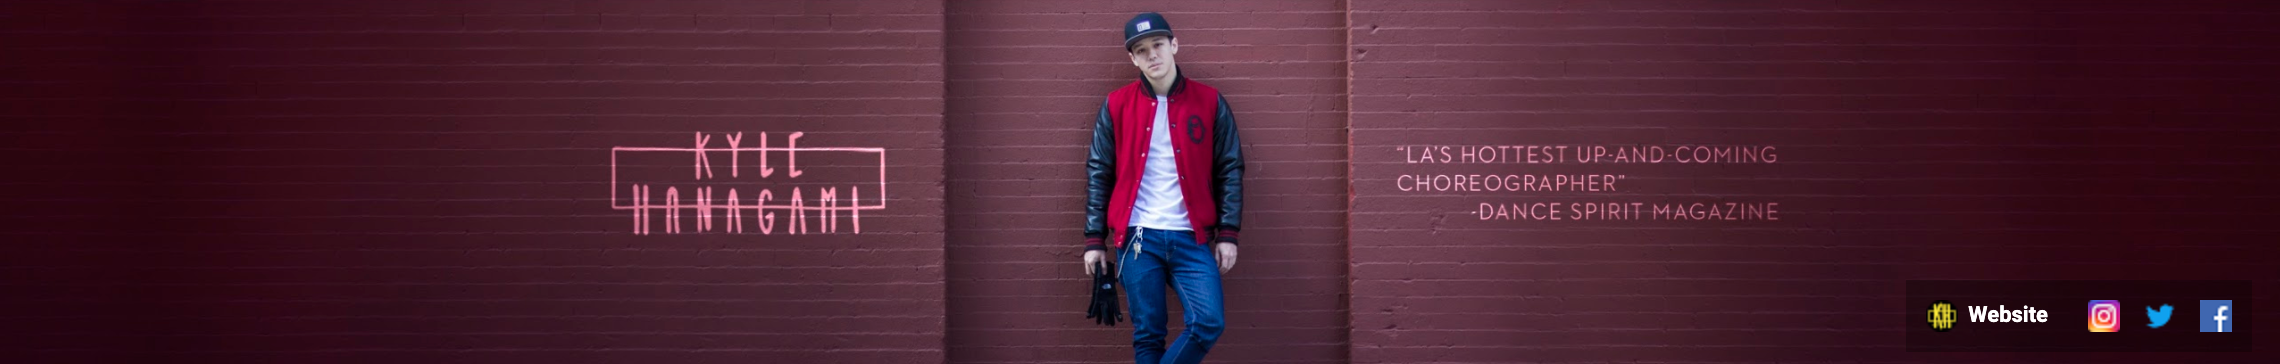
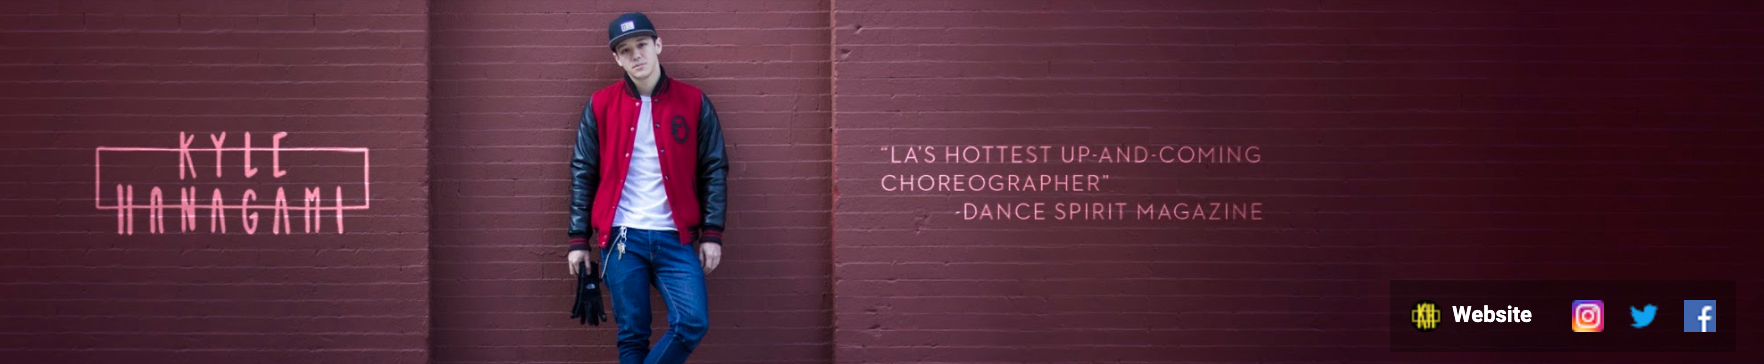
updated left-nav-bar

diff --git a/index.html b/index.html
@@ -36,24 +36,58 @@
           <div><span><i class="fas fa-fire"></i></span><span>Trending</span></div>
           <div><span><i class="fab fa-youtube-square"></i></span><span>Subscriptions</span></div>
         </div>
+
+        <div class = "line-divider"></div>
         
         <div class="box5">
-          <div><span><i class="fas fa-home"></i></span><span>Library</span></div>
-          <div><span><i class="fas fa-fire"></i></span><span>History</span></div>
-          <div><span><i class="fab fa-youtube-square"></i></span><span>Your videos</span></div>
-          <div><span><i class="fas fa-home"></i></span><span>Watch later</span></div>
-          <div><span><i class="fas fa-fire"></i></span><span>Favorites</span></div>
-          <div><span><i class="fab fa-youtube-square"></i></span><span>Show more</span></div>
+          <div><span><i class="fab fa-youtube-square"></i></span><span>Library</span></div>
+          <div><span><i class="fas fa-history"></i></span><span>History</span></div>
+          <div><span><i class="fab fa-youtube"></i></span><span>Your videos</span></div>
+          <div><span><i class="fas fa-clock"></i></span><span>Watch later</span></div>
+          <div><span><i class="fas fa-star"></i></span><span>Favorites</span></div>
+          <div><span><i class="fas fa-chevron-down"></i></span><span>Show more</span></div>
+        </div>
+
+        <div class = "line-divider"></div>
+
+        <div class="box6">
+          <div>SUBSCRIPTIONS</div>
+          <div><span><i class="far fa-circle"></i><span>DW Documentary</span></div>
+          <div><span><i class="far fa-circle"></i></span><span>tagesschau</span></div>
+          <div><span><i class="far fa-circle"></i></span><span>Pro Home Cooks</span></div>
+          <div><span><i class="far fa-circle"></i></span><span>Karl Conrad</span></div>
+          <div><span><i class="far fa-circle"></i></span><span>Marques Brownlee</span></div>
+          <div><span><i class="far fa-circle"></i></span><span>Business Insider</span></div>
+          <div><span><i class="far fa-circle"></i></span><span>Tasty</span></div>
+          <div><span><i class="far fa-circle"></i></span><span>Show 112 more</span></div>
         </div>
       </div>
 
       <div class="right-container">
-        <div class="box6"><img src="./img/banner.png" alt=""/></div>
-        <div class="box7">BOX 7</div>
-        <div class="box8">BOX 8</div>
+        <div class="box7"><img src="./img/banner.png" alt=""/></div>
+        <div class="box8">
+          <div class="8A"><img src="./img/page-thumbnail.png" alt=""></div>
+          <div class="8B"></div>
+          <div class="8C"></div>
+          <div class="8D"></div>
+          <div class="8E"></div>
+          <div class="8F"></div>
+            <nav>
+              <li>HOME</li>
+              <li>VIDEOS</li>
+              <li>PLAYLISTS</li>
+              <li>COMMUNITY</li>
+              <li>STORE</li>
+              <li>CHANNELS</li>
+              <li>ABOUT</li>
+              <span><i class="fas fa-search"></i></span>
+            </nav>
+          </div>
+        </div>
         <div class="box9">BOX 9</div>
         <div class="box10">BOX 10</div>
-        <div class="box11">Box 11</div>
+        <div class="box11">BOX 11</div>
+        <div class="box12">Box 12</div>
      </div> 
     </div>
   </body>

diff --git a/css/style.css b/css/style.css
@@ -12,7 +12,7 @@ body {
   display: grid;
   height: 100vh;
   grid-template-columns: 20% 80%;
-  grid-template-rows: 10% 90%;
+  grid-template-rows: 5% 95%;
   grid-template-areas:
   "b1 b1"
   "b2 b3"
@@ -36,20 +36,30 @@ body {
 
 }
 
+.box8 {
+  display: grid;
+  grid-template-columns: 10% 30% 10% 40% 10%;
+  grid-template-rows: 1fr 1fr 1fr 1fr;
+
+}
+
 /* END OF GRID */
 
-.box1,
-.box2,
-.box3 {
+/* Formatting */ 
+
+/* gray bg inside windows */
+.top-container, .left-container {
   background-color: #212121;
-  height: 50px;
+}
+
+.box1, .box2, .box3 {
+  height: 40px;
 }
 
 .box1 {
   display: flex;
   justify-content: flex-start;
-  align-items: flex-start;
-  margin: 10px 0;
+  align-items: center;
 }
 
 .header-icon i {
@@ -58,7 +68,6 @@ body {
 }
 
 .logo-main img {
-  padding: 16px 20px;
   padding-left: 10px;
   height: 20px;
 }
@@ -67,14 +76,12 @@ body {
   display: flex;
   justify-content: center;
   align-items: center;
-  margin: 10px 0;
 }
 .box2 input {
   background-color: #0a0a0a;
   border: 0.1px #313131 solid;
   border-radius: 3px;
   color: gray;
-  outline: 0;
   width: 500px;
   height: 30px;
 }
@@ -94,26 +101,57 @@ input:focus {
 }
 
 .box3 {
-  margin: 10px 0;
   display: flex;
   justify-content: flex-end;
   align-items: center;
 }
 
 .user-img {
-  height: 100px;
-  width: 100px;
-  margin-right: 50px;
-  padding-top: 20px;
+  height: 40px;
+  width: 80px;
 }
 .user-img img {
   height: 30px;
   width: 25px;
   border-radius: 50%;
-  transform: translate(10px, 80%);
+  transform: translate(10px, 12%);
 }
 
-.box6 img {
-  width: 200px;
+.left-container {
+  overflow-y: auto;
+}
+.box4, .box5 {
+  margin: 20px 0;
 }
 
+.box4 div, .box5 div, .box6 div{
+  padding: 15px;
+}
+
+.box4 i, .box5 i, .box6 i {
+  margin-right: 15px;
+  color: #909090;
+}
+
+.box4 span:nth-child(2), .box5 span:nth-child(2)  {
+  font-size: 14px;
+  color: white;
+}
+
+.line-divider {
+  background-color: rgba(128, 128, 128, 0.3);
+  height: 1px;
+  width: 260px;
+}
+
+.box6 > div:first-of-type {
+  color: #909090;
+  font-size: 13px;
+}
+
+.right-container {
+  overflow-y: auto;
+}
+.box7 img {
+  width: 100%;
+}
